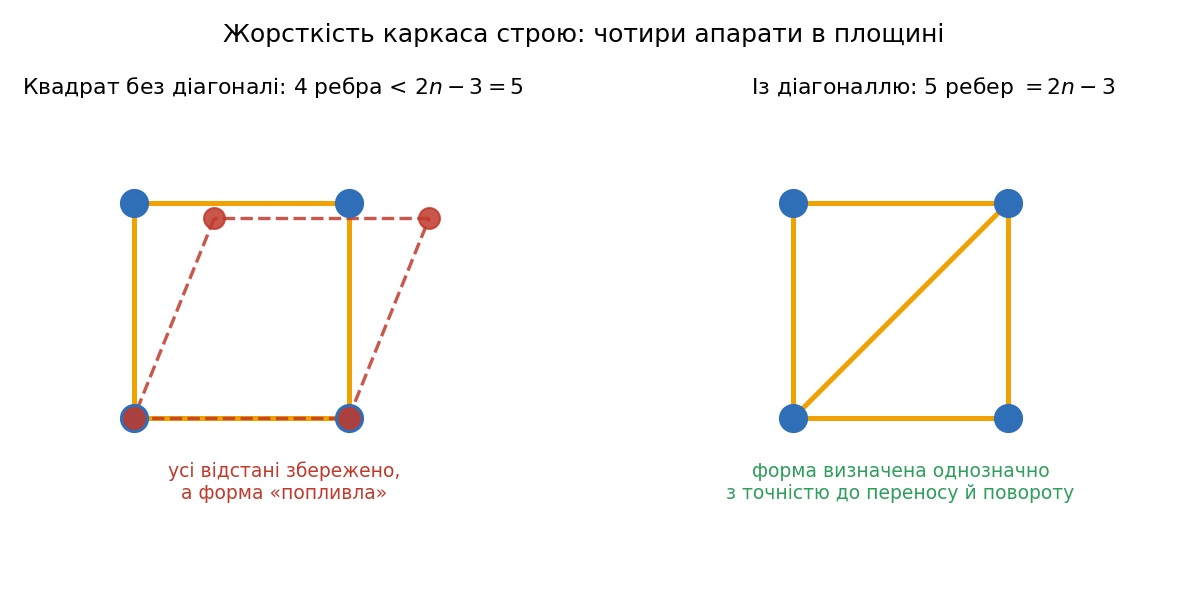
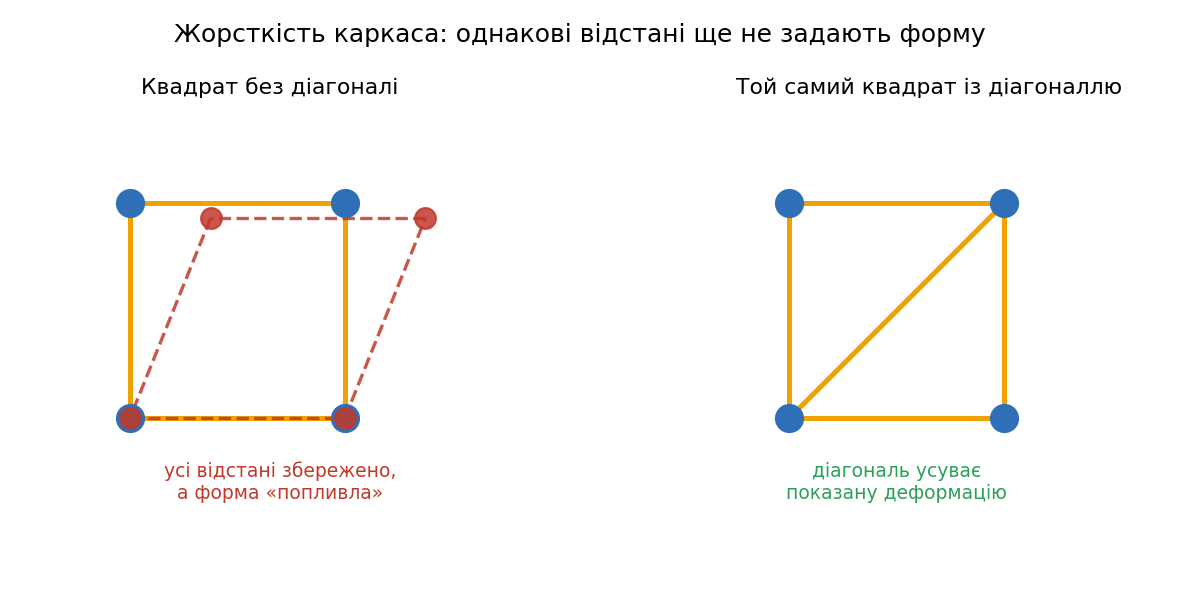
Четверте рев'ю: знято всі блокувальні формулювання
Рев'юер підтвердив, що структура й обсяг обох лекцій питань не викликають,
а заважають конкретні фрази. Сім блокувальних виправлено:

- 02 к.11: у таблиці якості лишалося "прямує до нуля лише з інтегральною
  складовою" - суперечить feedforward mg з ЛР 1. Тепер критерій якості;
- 02 к.9: "стійкий = крива не тікає вгору", обов'язкове розсипання рою за
  6 с і безумовне зростання витрати заряду - рисунок цього не перевіряє;
- 03 к.6: керуючий вектор називався "тягою" (плутається з фізичною тягою
  з Модуля 02), і після попередньої правки зникли означення d_o та e_o;
- 03 к.8: хибне узагальнення, що distance і bearing однаково дають лише
  локальні гарантії. Розведено: bearing - з точністю до перенесення й
  масштабу, distance - ризик дзеркальної збірки;
- 03 к.11: зростання lambda_max ототожнювалося з появою апарата з багатьма
  сусідами. Прибрано, лишено залежність від lambda_max у цій моделі;
- 03 к.18-19 і перехід у конспекті: "структура важливіша за коефіцієнти" ->
  "впливають і структура, і налаштування"; знято універсальне "закон
  доводиться переписувати";
- конспект 03: лишалося "ламаються незалежно" замість виправленого.

Рисунки: m02-rigidity обіцяв "форма визначена однозначно" і показував
критерій 2n-3 - обидва зняті, лишилася демонстрація "діагональ усуває
показану деформацію". У заголовках m03-string-stability лишалося
"6-го відомого" - виправлено на "веденого".

Дрібніше: дрейф уточнено як стале зміщення акселерометра; у Калмані
[…]

diff --git a/lectures/03.md b/lectures/03.md
@@ -62,9 +62,9 @@ outline: [2, 3]
 
 $$\Delta\mathbf{v}_i = w_s\,\mathbf{s}_i + w_a\,\mathbf{a}_i + w_c\,\mathbf{c}_i, \qquad \mathbf{v}_i \leftarrow \mathbf{v}_i + \Delta\mathbf{v}_i$$
 
-Ваги $w_s$, $w_a$, $w_c$ задають, яке правило переважає; підбирають їх експериментально — саме це ви й робитимете у віджеті нижче. На практиці додають ще одну дрібницю, без якої модель розлітається: обмеження максимальної швидкості.
+Ваги $w_s$, $w_a$, $w_c$ задають, яке правило переважає; підбирають їх експериментально — саме це ви й робитимете у віджеті нижче. У реалізації віджета є ще одна деталь: обмеження максимальної швидкості.
 
-Порядок радіусів важливий: розділення має діяти на менших відстанях, ніж злиття. Якщо його переплутати, рій зазвичай або злипається в купку, або розсипається.
+У типових реалізаціях розділення діє на менших відстанях, ніж злиття; у віджеті нижче саме так. Переплутавши ці радіуси, рій зазвичай або злипається в купку, або розсипається.
 
 Узгоджений рух тут не програмується, а **виникає**: жодне з трьох правил не містить поняття «стрій», але група починає рухатися як ціле. Це і є емерджентність, з якої почався Модуль 01. Міряють її параметром порядку — модулем середньої одиничної швидкості: одиниця означає, що всі летять паралельно, нуль — що напрямки взаємно компенсуються (і хаос, і дві рівні зустрічні групи дають нуль). Саме це число показує віджет унизу картки.
 
@@ -78,9 +78,9 @@ $$\Delta\mathbf{v}_i = w_s\,\mathbf{s}_i + w_a\,\mathbf{a}_i + w_c\,\mathbf{c}_i
 
 $$\mathbf{F}_i = k_{\text{att}}\,\hat{\mathbf{e}}_{\text{goal}} \;+\; \sum_{d_o < d_0} k_{\text{rep}}\left(\frac{1}{d_o} - \frac{1}{d_0}\right)\frac{\hat{\mathbf{e}}_o}{d_o^{2}}$$
 
-Перший доданок — постійна тяга в бік цілі: $\hat{\mathbf{e}}_{\text{goal}}$ — одиничний вектор на ціль, тобто напрямок є, а величина від відстані не залежить.
+$\mathbf{F}_i$ тут — керуючий вектор, за яким рухають агента в цій моделі, а не фізична тяга гвинтів. Перший доданок — притягання **сталої величини** в бік цілі: $\hat{\mathbf{e}}_{\text{goal}}$ — одиничний вектор на ціль, тобто напрямок є, а величина від відстані не залежить.
 
-Другий доданок відштовхує, і в ньому цікава сама конструкція. Сума береться **лише по близьких перешкодах**: далі за радіус впливу $d_0$ доданка немає взагалі. А дужка $(1/d_o - 1/d_0)$ влаштована так, що на самій межі радіуса вона дорівнює нулю — відштовхування вмикається плавно, без ривка, — і швидко росте, коли апарат підходить упритул. Саме ці кола показані на рисунку пунктиром.
+Другий доданок відштовхує. Тут $d_o$ — відстань до центра перешкоди, $\hat{\mathbf{e}}_o$ — одиничний вектор від її центра до агента, $d_0$ — радіус впливу. Сума береться **лише по близьких перешкодах**: далі за $d_0$ доданка немає взагалі. А дужка $(1/d_o - 1/d_0)$ влаштована так, що на самій межі радіуса вона дорівнює нулю — відштовхування вмикається плавно, без ривка, — і швидко росте, коли апарат підходить упритул. Саме ці кола показані на рисунку пунктиром.
 
 
 <Figure src="/figs/own/m03-potential-field.png" alt="Карта векторів потенціального поля і траєкторія навколо двох перешкод">
@@ -118,11 +118,13 @@ $$\mathbf{F}_i = k_{\text{att}}\,\hat{\mathbf{e}}_{\text{goal}} \;+\; \sum_{d_o 
 | distance | відстані $\lVert p_j - p_i \rVert$ | лише дальність (UWB), жорсткий каркас | перенесення й обертання |
 | bearing | напрямки на сусіда | камера чи пеленгатор, спільний орієнтир | перенесення й масштабу |
 
-**Displacement — робоча точка для рою в приміщенні:** не потрібен GPS, достатньо спільного курсового репера. Distance і bearing дешевші за сенсорикою, але дають лише локальні гарантії: навіть за правильних вимірювань строй може зібратися в іншу припустиму конфігурацію.
+**Displacement — робоча точка для рою в приміщенні:** не потрібен GPS, достатньо спільного курсового репера. Distance і bearing дешевші за сенсорикою. Bearing за достатнього набору напрямків задає стрій із точністю до перенесення й масштабу. У distance складніше: правильні відстані ще не означають єдино можливої збірки — форма може зафіксуватися дзеркальною.
 
 Сам закон для displacement — це протокол консенсусу з Модуля 02, до якого додали бажані зсуви:
 
 $$u_i = \sum_{j \in \mathcal{N}_i}\Bigl[(p_j - p_i) - (p_j^{*} - p_i^{*})\Bigr]$$
+
+Тут $u_i$ — команда швидкості спрощеного агента.
 
 Агент тягнеться не до позиції сусіда, а до позиції сусіда мінус потрібна різниця. Якщо всі бажані зсуви нульові, рій просто збирається в точку — це вихідний консенсус.
 
@@ -160,7 +162,7 @@ $$u_i = \sum_{j \in \mathcal{N}_i}\Bigl[(p_j - p_i) - (p_j^{*} - p_i^{*})\Bigr]$
 
 Що звідси випливає, а що ні. Дослід показує, що передавання по ланцюжку **може** підсилювати збурення й що налаштування це змінює. Він **не** показує, що довга колона погана за будь-яких коефіцієнтів: права панель — та сама колона, і в ній усе гаразд.
 
-Практичний висновок обережніший: **перевіряти треба реакцію всієї групи, а не одного апарата.** Регулятор, який чудово відпрацьовує на лідері, може бути непридатним на шостому. Окремо існує відома конструктивна міра — транслювати стан лідера всім одразу замість передавання ланцюжком; цей дослід її не перевіряв.
+Практичний висновок обережніший: **перевіряти треба реакцію всієї групи, а не одного апарата.** Добра поведінка одного апарата ще не гарантує доброї поведінки всієї колони. Окремо існує відома конструктивна міра — транслювати стан лідера всім одразу замість передавання ланцюжком; цей дослід її не перевіряв.
 
 ### Щільніший граф гірше терпить затримки
 
@@ -191,7 +193,7 @@ $$\tau^{*} = \frac{\pi}{2\,\lambda_{\max}(L)}$$
 
 За затримки 0,35 с повний граф і зірка вже нестійкі, а «гірші» ланцюг і кільце ще працюють.
 
-Прочитайте таблицю уважно — вона складніша за гасло «щільніше гірше». Ланцюг і кільце мають однакову межу затримки, хоча в кільця на ребро більше: **додаткове ребро тут прискорило збирання задарма**. А зірка з чотирма ребрами програє кільцю з п'ятьма. Платить не той, хто додав ребро, а той, у кого виріс $\lambda_{\max}$ — тобто в кого з'явився апарат із багатьма сусідами.
+Прочитайте таблицю уважно — вона складніша за гасло «щільніше гірше». Ланцюг і кільце мають однакову межу затримки, хоча в кільця на ребро більше: **додаткове ребро тут прискорило збирання задарма**. А зірка з чотирма ребрами програє кільцю з п'ятьма. Отже, межу задає не кількість ребер, а $\lambda_{\max}$ конкретного графа в цій моделі.
 
 Застерога: числа справедливі для цього досліду — однакова стала затримка в усіх каналах, одиничні ваги, проста динаміка агента. За інших припущень межі зміняться; лишається якісний висновок, що швидкість і терпимість до затримки задають різні величини.
 
@@ -289,21 +291,21 @@ $$d_{\min} = \min_{t}\ \min_{i \neq j}\ \bigl\lVert \mathbf{p}_i(t) - \mathbf{p}
 | «Потенціальні поля доведуть до цілі» | Можуть зупинитися там, де притягання й відштовхування компенсують одне одного. Гарантії досягнення цілі метод не дає |
 | «Щільніша мережа гірша, ми ж це довели» | Ні, довели інше: швидкість і терпимість до затримки задають **різні** власні числа. Кільце має на ребро більше за ланцюг і терпить таку саму затримку |
 | «Похибка строю мала — отже все добре» | Спершу перевірте, що саме міряє метрика. І окремо перевірте дві інші речі: чи не порушено безпечні дистанції й чи виконано мету місії |
-| «У leader–follower немає ціни за простоту» | Ціна є: єдине джерело завдання руху. А накопичення збурень — плата не за лідера, а за передавання ланцюжком |
+| «У leader–follower немає ціни за простоту» | Ціна є: єдине джерело завдання руху. А накопичення збурень — можливий ризик передавання ланцюжком, і залежить він від налаштування |
 
 ### Висновки: межі класичних законів
 
 - **Те, що агент вимірює, визначає, що він узагалі може втримати.** Чим бідніший сенсор, тим більше лишається невизначеним — і тим жорсткіші вимоги до графа зв'язків.
-- **Структура інформації важливіша за коефіцієнти.** Один і той самий висновок прийшов із трьох різних місць лекції: колона, затримки, жорсткість. Щоразу питання «хто на кого дивиться» виявлялося важливішим за питання «які коефіцієнти».
+- **На результат впливають і структура зв'язків, і налаштування.** Це видно з трьох різних місць лекції: колона, затримки, жорсткість. Питання «хто на кого дивиться» не менш важливе за питання «які коефіцієнти», і перевіряти треба обидва.
 - **Метрику треба вибирати під мету задачі**, а безпеку міряти окремо — мінімальною дистанцією. Інакше звіт покаже успіх там, де його немає.
 
-Чого класичні закони не вміють: кожен виводиться під наперед відому постановку. Потенціальні поля застрягають у локальних мінімумах і не обіцяють дійти до цілі; distance-закон має лише локальні гарантії; будь-який із них треба переписувати, щойно змінюється те, під що його виводили. Там, де закон вручну не виводиться, політику навчають.
+Чого класичні закони не дають: кожен виводиться під наперед відому постановку й гарантії має лише в її межах. Потенціальні поля можуть зупинитися, не дійшовши до цілі; distance-закон має лише локальні гарантії. Щойно задача виходить за межі припущень, закон доводиться переглядати — і саме там, де вивести його важко, політику навчають.
 
-Зворотне теж правда, і про це варто сказати прямо: навчання не знімає фізичних меж. Затримка каналу, дальність зв'язку й запас тяги лишаються тими самими, а деякі класичні закони — ті самі Boids — масштабуються без жодного перенавчання.
+Зворотне теж правда, і про це варто сказати прямо: навчання не знімає фізичних меж. Затримка каналу, дальність зв'язку й запас тяги лишаються тими самими. І не всі класичні закони обмежені: Boids працює з будь-якою кількістю апаратів без жодного перенавчання.
 
 ### Перехід до Модуля 04
 
-Класичні закони цього модуля виводяться вручну й вимагають, щоб проєктувальник наперед знав геометрію задачі, кількість апаратів і характер перешкод. Щойно ці припущення порушуються, закон доводиться переписувати.
+Класичні закони цього модуля виводяться вручну під наперед відому постановку: геометрію задачі, кількість апаратів, характер перешкод. У межах цих припущень вони працюють і дають гарантії; поза ними — потребують перегляду.
 
 **Модуль 04 · Навчання з підкріпленням: основи** переходить до альтернативного способу отримати керуючу політику: не вивести її, а навчити на взаємодії із середовищем. Класичні закони при цьому нікуди не зникають — вони стають базовою лінією для порівняння і джерелом функцій винагороди для формаційних задач.
 

diff --git a/lectures/02.md b/lectures/02.md
@@ -112,13 +112,13 @@ $$F_{\text{верт}} = F\cos\gamma, \qquad F_{\text{гориз}} = F\sin\gamma$
 
 На графіку два контури з однаковим початковим відхиленням. Швидкий прибирає 95 % за **1,5 с**, повільний — за **6,0 с**, тобто вчетверо довше. Обидва «стійкі»: обидва повертаються, питання лише в часі.
 
-| **Фраза** | **Що вона означає на графіку** |
+| **Фраза** | **Що вона означає** |
 |---|---|
-| «контур стійкий» | крива не тікає вгору |
-| «відхилення гаситься за 1,5 с» | крива впала до 5 % від початкової за 1,5 с |
-| «контур млявий» | падає, але надто довго — рій за цей час зіб'ється зі строю |
+| «контур стійкий» | мале збурення не викликає великого відхилення |
+| «відхилення гаситься за 1,5 с» | залишилося 5 % від початкового через 1,5 с |
+| «контур млявий» | повертається, але може не вкластися у вимоги задачі |
 
-Швидше — не завжди краще: різкіший контур сильніше смикає мотори, більше їсть заряду й гірше терпить шум датчика. Компроміс шукають під задачу.
+Швидше — не завжди краще. Різкіший контур на реальному апараті сильніше смикає мотори й гірше терпить шум датчика; цей рисунок таких ефектів не перевіряє, він показує лише швидкість повернення.
 
 ### ПІД: три доданки й похибка від вітру
 
@@ -150,7 +150,7 @@ $$u = k_p\,e + k_i\!\int e\,dt + k_d\,\dot e$$
 |---|---|---|
 | Перерегулювання $\sigma$ | $(z_{\max} - z^{*})/\Delta \cdot 100\,\%$ | $\sigma \le 10\,\%$ |
 | Час перехідного процесу $t_{\text{п}}$ | момент, після якого крива не виходить за коридор $\lvert z - z^{*}\rvert \le 0{,}05\,\Delta$ | що менший, то краще |
-| Стала похибка $e_{\text{ст}}$ | середнє $\lvert z - z^{*}\rvert$ на останніх 2 с | прямує до нуля лише з інтегральною складовою |
+| Стала похибка $e_{\text{ст}}$ | середнє $\lvert z - z^{*}\rvert$ на останніх 2 с | якнайменша |
 
 Ці три числа й будуть результатом вашої першої лабораторної.
 
@@ -188,7 +188,7 @@ Crazyflie 2.1 із лабораторних: у висінні мотори ви
 </Figure>
 
 
-Плата за автономність — дрейф. Найменше стале зміщення показів інтегрується двічі й перетворюється на похибку положення, що росте дедалі швидше:
+Плата за автономність — дрейф. Стале зміщення показів **акселерометра** інтегрується двічі й перетворюється на похибку положення, що росте дедалі швидше:
 
 | **Час без зовнішньої корекції** | **Похибка положення** |
 |---|---|
@@ -196,7 +196,7 @@ Crazyflie 2.1 із лабораторних: у висінні мотори ви
 | 30 с | 22,5 м |
 | 60 с | 90 м |
 
-Числа наведено для скромного зміщення 0,05 м/с². Закономірність важливіша за самі числа: **удвічі довше без корекції — вчетверо гірша позиція.** Саме тому апарат не може довго літати «наосліп» і мусить час від часу звірятися із зовнішнім джерелом — GPS, камерою, дальноміром.
+Числа наведено для скромного сталого зміщення акселерометра 0,05 м/с² — саме для цієї моделі зростання квадратичне. Закономірність важливіша за самі числа: **удвічі довше без корекції — вчетверо гірша позиція.** Саме тому апарат не може довго літати «наосліп» і мусить час від часу звірятися із зовнішнім джерелом — GPS, камерою, дальноміром.
 
 ### Фільтр Калмана: два джерела, одна оцінка
 
@@ -216,7 +216,7 @@ $$\hat{x} = \hat{x}^- + K\,(z - \hat{x}^-)$$
 </Figure>
 
 
-Числовий приклад для висоти: прогноз 10,00 м, барометр 11,20 м. Обидва неточні, і їхню неточність задають стандартними відхиленнями — 0,30 м у прогнозу, 0,80 м у барометра. Фільтр зважує їх за квадратами цих чисел: $K = 0{,}09/(0{,}09+0{,}64) = 0{,}123$, нова оцінка $10{,}00 + 0{,}123 \cdot 1{,}20 = 10{,}15$ м. Прогноз утричі точніший, тому результат лишився близько до нього, а розрахункова невизначеність упала з 0,30 до 0,28 м. Підсилення близьке до нуля означає «вірю моделі», близьке до одиниці — «вірю датчику».
+Числовий приклад для висоти: прогноз 10,00 м, барометр 11,20 м. Обидва неточні, і їхню неточність задають стандартними відхиленнями — 0,30 м у прогнозу, 0,80 м у барометра. Фільтр зважує їх за квадратами цих чисел: $K = 0{,}09/(0{,}09+0{,}64) = 0{,}123$, нова оцінка $10{,}00 + 0{,}123 \cdot 1{,}20 = 10{,}15$ м. У прогнозу менше стандартне відхилення, тому результат лишився ближче до нього, а розрахункова невизначеність упала з 0,30 до 0,28 м. У прикладі похибки двох джерел вважаємо незалежними. Підсилення близьке до нуля означає «вірю моделі», близьке до одиниці — «вірю датчику».
 
 ## Частина 3 · Граф рою
 
@@ -332,7 +332,7 @@ for name, E in topo.items():
 | «Автопілот — це зручність, апарат і сам полетить» | Без стабілізації збурення не гасяться: похилившись, апарат рушає вбік і відхиляється далі |
 | «Є GPS — навіщо якийсь фільтр» | GPS шумить і в приміщенні зникає, інерціальні датчики спливають. Фільтр поєднує прогноз і вимірювання з урахуванням їхньої невизначеності |
 | «Контур стійкий, отже добрий» | Стійкий контур може прибирати відхилення 6 секунд замість 1,5 — і не вкластися у вимоги задачі |
-| «Більше каналів зв'язку — швидше узгодження» | Самого підрахунку ребер замало: зірка й ланцюг мають по чотири, а збираються з різницею вдвічі. Важать і кількість, і розстановка, і ваги |
+| «Кількість каналів повністю визначає швидкість» | Самого підрахунку ребер замало: зірка й ланцюг мають по чотири, а збираються з різницею вдвічі. Важать і кількість, і розстановка, і ваги |
 | «Кути Ейлера застаріли, всі рахують кватерніонами» | Зазвичай оператору показують кути, а всередині рахують інше. Це не суперечність, а різні представлення під різні задачі |
 
 ### Висновки: що з цього повернеться далі
